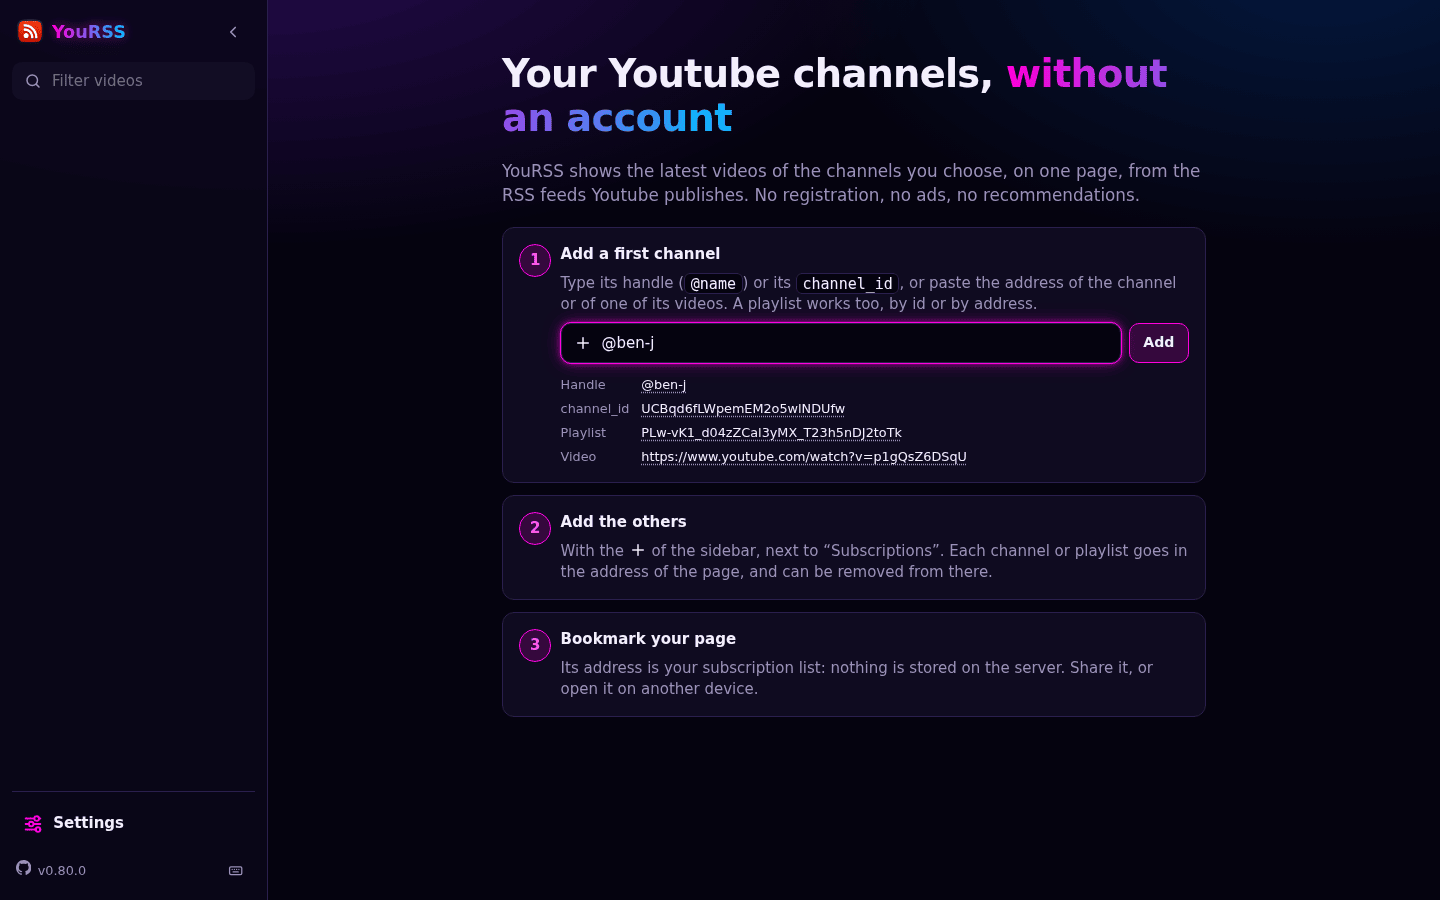
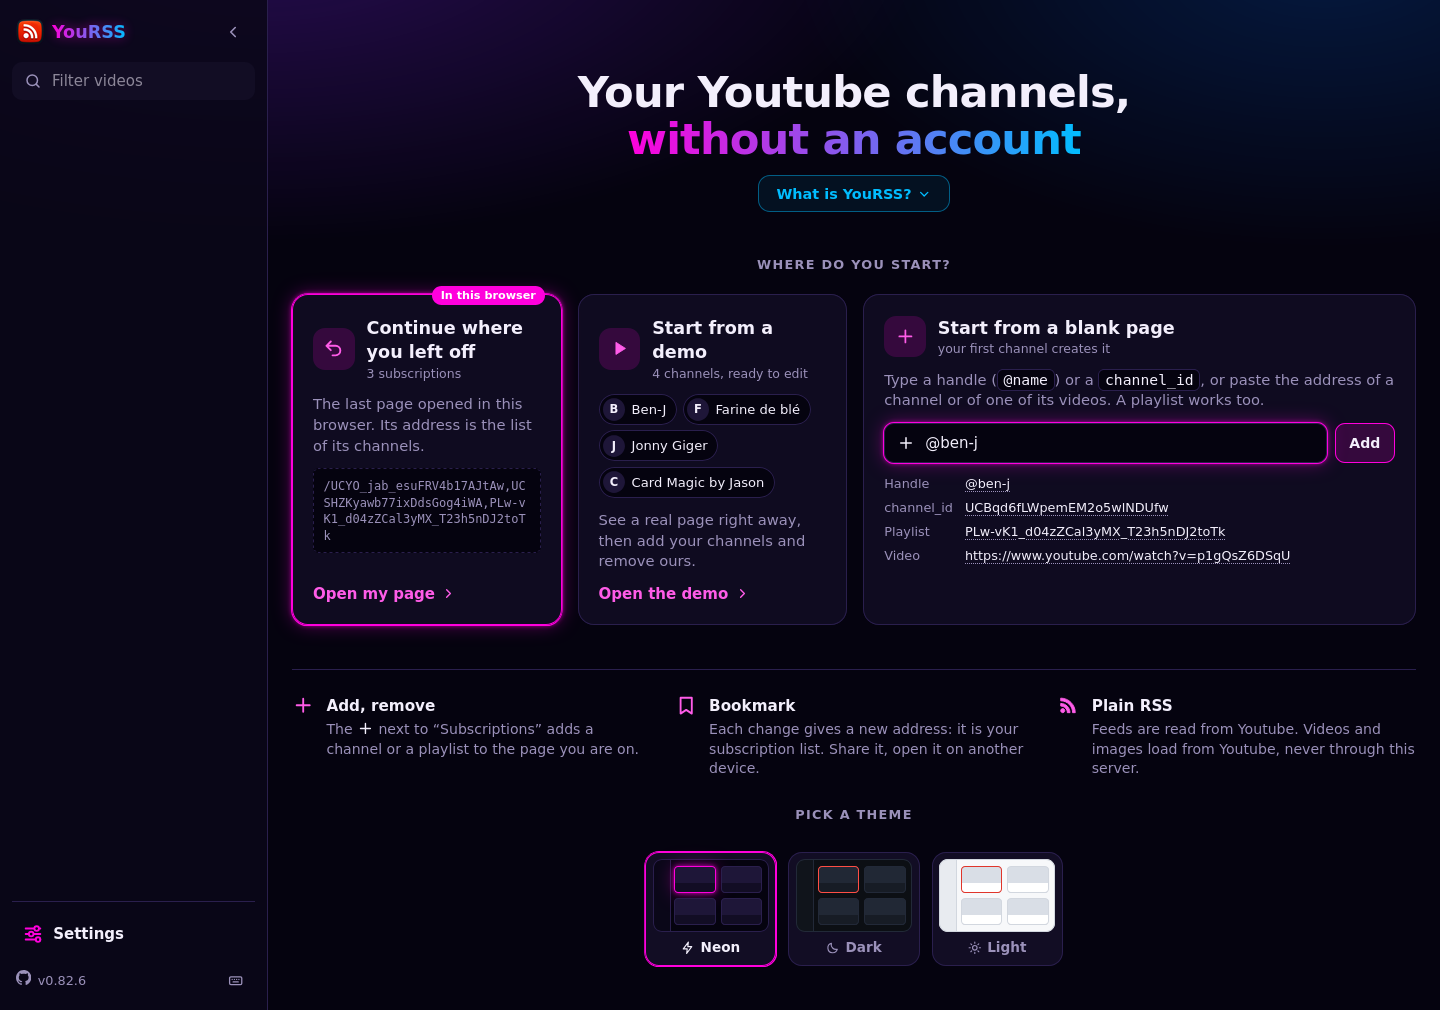
✨ Home page: three ways to start (last page, demo, blank page) and a theme picker
The demo page (Ben-J, Farine de blé, Jonny Giger, Card Magic by Jason) is welcomed
like a first page built from the home page. "What is YouRSS?" is a collapsed card,
so that the ways to start show without scrolling on a phone.

diff --git a/src/yourss/static/yourss.css b/src/yourss/static/yourss.css
@@ -234,11 +234,85 @@ body.rail .yourss-caret { display: none; }
 @media (max-width: 899px) { .yourss-welcome-phone { display: inline; } }
 
 /* ---- home page: the tutorial ---- */
-.yourss-home { max-width: 44rem; margin: 0 auto; padding: 2rem 0; display: flex; flex-direction: column; gap: 1.25rem; }
-.yourss-home h1 { margin: 0; font-size: clamp(1.6rem, 5vw, 2.4rem); line-height: 1.15; letter-spacing: -.02em; }
+.yourss-home { max-width: 72rem; margin: 0 auto; padding: 2rem 0 3rem; display: flex; flex-direction: column; gap: 1.25rem; }
+.yourss-home-hero { display: flex; flex-direction: column; align-items: center; gap: .75rem; padding: 1rem 0; text-align: center; }
+.yourss-home h1 { margin: 0; font-size: clamp(1.7rem, 5vw, 2.7rem); line-height: 1.1; letter-spacing: -.02em; }
 .yourss-home h1 em { font-style: normal; color: var(--accent); }
-.yourss-home-lead { margin: 0; font-size: 1.05rem; color: var(--fg-muted); }
-.yourss-home-resume { align-self: flex-start; height: 42px; padding: 0 1.1rem; border-color: var(--accent); color: var(--fg); font-weight: 600; }
+.yourss-home-lead { margin: 0; max-width: 38rem; font-size: 1.05rem; color: var(--fg-muted); }
+/* "What is YouRSS?" is blue: pink already marks the ways to start below it */
+.yourss-home-about { --about: #3b8ef0; max-width: 40rem; text-align: center; padding: .45rem 1.1rem; border-radius: var(--radius); border: 1px solid color-mix(in srgb, var(--about) 45%, transparent); background: color-mix(in srgb, var(--about) 8%, transparent); }
+[data-theme="light"] .yourss-home-about { --about: #1f6fd1; }
+[data-theme="neon"] .yourss-home-about { --about: var(--cyan); }
+.yourss-home-about[open] { padding-bottom: 1rem; border-color: var(--about); background: color-mix(in srgb, var(--about) 6%, var(--bg-elev)); }
+.yourss-home-about summary { display: inline-flex; align-items: center; gap: .35rem; list-style: none; cursor: pointer; font-size: .9rem; font-weight: 600; color: var(--about); }
+.yourss-home-about summary::-webkit-details-marker { display: none; }
+.yourss-home-about summary:hover { color: var(--fg); }
+.yourss-home-about .yourss-home-pills li { border-color: color-mix(in srgb, var(--about) 35%, transparent); }
+.yourss-home-about .yourss-home-pills svg, .yourss-home-source svg { color: var(--about); }
+.yourss-home-about .yourss-home-lead { margin: .75rem 0; }
+.yourss-home-source { margin: .9rem 0 0; font-size: .85rem; color: var(--fg-muted); }
+.yourss-home-source a { display: inline-flex; align-items: center; gap: .25rem; color: var(--fg); font-weight: 600; text-decoration: underline; text-underline-offset: 3px; }
+.yourss-home-source svg { width: 1em; height: 1em; }
+.yourss-home-about summary svg { width: 1em; height: 1em; transform: rotate(90deg); transition: transform .15s; }
+.yourss-home-about[open] summary svg { transform: rotate(-90deg); }
+.yourss-home-pills { list-style: none; margin: 0; padding: 0; display: flex; flex-wrap: wrap; justify-content: center; gap: .4rem; }
+.yourss-home-pills li { display: inline-flex; align-items: center; gap: .35rem; padding: .25rem .7rem; border-radius: 999px; border: 1px solid var(--line); font-size: .8rem; color: var(--fg-muted); }
+.yourss-home-pills svg { width: 1em; height: 1em; }
+.yourss-home-themes { display: flex; flex-wrap: wrap; justify-content: center; gap: .75rem; margin-top: .5rem; }
+.yourss-theme-swatch { display: flex; flex-direction: column; align-items: center; gap: .4rem; padding: .4rem .4rem .5rem; border-radius: 14px; border: 1px solid var(--line); background: var(--bg-elev); color: var(--fg-muted); font-size: .85rem; font-weight: 600; transition: border-color .15s, transform .15s; }
+.yourss-theme-swatch:hover { transform: translateY(-2px); color: var(--fg); }
+.yourss-theme-swatch.active { border-color: var(--accent); color: var(--fg); box-shadow: 0 0 0 1px var(--accent); }
+.yourss-theme-name { display: inline-flex; align-items: center; gap: .35rem; }
+.yourss-theme-name svg { width: 1em; height: 1em; fill: currentColor; stroke: none; }
+/* A miniature page: a sidebar and four cards, in the colours of the theme it previews */
+.yourss-theme-preview { display: grid; grid-template-columns: repeat(2, 2.6rem); gap: .3rem; padding: .35rem .35rem .35rem 1.3rem; border-radius: 9px; border: 1px solid var(--line); background: linear-gradient(90deg, var(--bg-side) 1rem, var(--line) 1rem 1.05rem, var(--bg) 1.05rem); }
+.yourss-theme-preview i { height: 1.7rem; border-radius: 4px; border: 1px solid var(--line); background: linear-gradient(var(--bg-hover) 62%, var(--bg-elev) 62%); }
+.yourss-theme-preview i:first-child { border-color: var(--accent); }
+/* Only neon defines a glow: the other previews would inherit it from the page in neon */
+.yourss-theme-preview[data-theme="neon"] i:first-child { box-shadow: var(--accent-glow); }
+.yourss-home-label { margin: .5rem 0 0; font-size: .8rem; letter-spacing: .1em; text-transform: uppercase; text-align: center; color: var(--fg-muted); }
+
+/* The three ways to start: the page remembered by this browser, the demo, a blank page */
+/* The blank page grows faster: its examples (a playlist id, a video address) need the room */
+.yourss-starts { display: flex; flex-wrap: wrap; gap: 1rem; align-items: stretch; }
+.yourss-start { position: relative; display: flex; flex-direction: column; gap: .75rem; flex: 1 1 14rem; min-width: 0; padding: 1.25rem; border-radius: 16px; background: var(--bg-elev); border: 1px solid var(--line); transition: border-color .15s, transform .15s; }
+.yourss-start.is-blank { flex: 3 1 26rem; }
+a.yourss-start:hover { border-color: var(--accent); transform: translateY(-2px); }
+.yourss-start.is-primary { border-color: var(--accent); box-shadow: 0 0 0 1px var(--accent); }
+.yourss-start-badge { position: absolute; top: -.6rem; right: 1rem; padding: .1rem .55rem; border-radius: 999px; background: var(--accent); color: var(--accent-fg); font-size: .7rem; font-weight: 700; }
+.yourss-start-head { display: flex; align-items: center; gap: .75rem; }
+.yourss-start-head strong { font-size: 1.1rem; }
+.yourss-start-head small { display: block; font-size: .78rem; font-weight: 500; color: var(--fg-muted); }
+.yourss-start-icon { display: grid; place-items: center; width: 2.6rem; height: 2.6rem; border-radius: 12px; flex: none; background: var(--accent-soft); color: var(--accent); }
+.yourss-start-icon svg { width: 1.3rem; height: 1.3rem; }
+.yourss-start-text { color: var(--fg-muted); font-size: .92rem; }
+.yourss-start code { padding: .05rem .35rem; border-radius: 6px; background: var(--bg); border: 1px solid var(--line); color: var(--fg); }
+.yourss-start .yourss-start-path { padding: .5rem .6rem; border-style: dashed; font-size: .75rem; color: var(--fg-muted); word-break: break-all; }
+.yourss-start-chips { display: flex; flex-wrap: wrap; gap: .35rem; }
+.yourss-start-chips > span { display: inline-flex; align-items: center; gap: .4rem; padding: .2rem .6rem .2rem .2rem; border-radius: 999px; background: var(--bg); border: 1px solid var(--line); font-size: .82rem; }
+.yourss-start-chips i { display: grid; place-items: center; width: 1.4rem; height: 1.4rem; border-radius: 50%; background: var(--bg-hover); font-style: normal; font-weight: 700; font-size: .72rem; }
+.yourss-start-go { margin-top: auto; display: inline-flex; align-items: center; gap: .4rem; font-weight: 600; color: var(--accent); }
+.yourss-start-go svg { width: 1em; height: 1em; }
+
+.yourss-home-how { list-style: none; margin: 1.5rem 0 0; padding: 1.5rem 0 0; border-top: 1px solid var(--line); display: grid; grid-template-columns: repeat(auto-fit, minmax(min(100%, 14rem), 1fr)); gap: 1.5rem; }
+.yourss-home-how li { display: flex; gap: .75rem; }
+.yourss-home-how li > svg { width: 1.4rem; height: 1.4rem; color: var(--accent); }
+.yourss-home-how span { font-size: .88rem; color: var(--fg-muted); }
+.yourss-home-how span svg { vertical-align: -.2em; color: var(--fg); }
+.yourss-home-how strong { display: block; margin-bottom: .2rem; color: var(--fg); font-size: .95rem; }
+/* Phones: the ways to start must show without scrolling, so the hero and the cards are trimmed */
+@media (max-width: 559px) {
+  .yourss-home { padding-top: .75rem; gap: 1rem; }
+  .yourss-home-hero { padding: 0; gap: .4rem; }
+  .yourss-home h1 { font-size: 1.5rem; }
+  .yourss-home-lead { font-size: .9rem; }
+  .yourss-start-path, a.yourss-start .yourss-start-text { display: none; }
+  .yourss-start { padding: 1rem; gap: .6rem; }
+  /* The three themes share one row, their previews shrink with it */
+  .yourss-home-themes { flex-wrap: nowrap; gap: .5rem; }
+  .yourss-theme-swatch { flex: 1 1 0; min-width: 0; }
+  .yourss-theme-preview { width: 100%; grid-template-columns: repeat(2, minmax(0, 1fr)); }
+}
 .yourss-steps { list-style: none; margin: 0; padding: 0; display: flex; flex-direction: column; gap: .75rem; counter-reset: step; }
 .yourss-steps li { counter-increment: step; position: relative; display: flex; flex-direction: column; gap: .5rem; padding: 1rem 1rem 1rem 3.6rem; background: var(--bg-elev); border: 1px solid var(--line); border-radius: var(--radius); }
 .yourss-steps li::before { content: counter(step); position: absolute; left: 1rem; top: 1rem; width: 1.9rem; height: 1.9rem; border-radius: 50%; display: grid; place-items: center; font-weight: 700; background: var(--accent-soft); color: var(--accent); border: 1px solid var(--accent); }
@@ -517,7 +591,9 @@ html[data-slide]::view-transition-new(root) { animation: yourss-slide-in .2s eas
 [data-theme="neon"] .yourss-video.is-watched [data-action="toggle-watched"] { color: var(--accent-text); }
 [data-theme="neon"] .yourss-home h1 em { background: linear-gradient(90deg, var(--accent) 0%, var(--cyan) 100%); -webkit-background-clip: text; background-clip: text; color: transparent; }
 [data-theme="neon"] .yourss-steps li::before, [data-theme="neon"] .yourss-add-error, [data-theme="neon"] .yourss-add-examples button:hover { color: var(--accent-text); }
-[data-theme="neon"] .yourss-steps li { background: rgba(18, 13, 36, .82); }
+[data-theme="neon"] .yourss-steps li, [data-theme="neon"] .yourss-start { background: rgba(18, 13, 36, .82); }
+[data-theme="neon"] .yourss-start-icon, [data-theme="neon"] .yourss-start-go, [data-theme="neon"] .yourss-home-how li > svg { color: var(--accent-text); }
+[data-theme="neon"] .yourss-start.is-primary { box-shadow: 0 0 0 1px var(--accent), var(--accent-glow); }
 [data-theme="neon"] .yourss-new { background: rgba(5, 3, 15, .78); color: var(--accent-text); border: 1px solid var(--accent); box-shadow: var(--accent-glow); }
 [data-theme="neon"] .yourss-reset-btn:hover { border-color: var(--err-line); background: var(--err-bg); color: var(--fg); }
 [data-theme="neon"] .yourss-settings-box { border-color: var(--accent); box-shadow: var(--accent-glow), 0 30px 90px rgba(0, 0, 0, .75); }

diff --git a/src/yourss/static/yourss.js b/src/yourss/static/yourss.js
@@ -331,12 +331,16 @@ const PAGE_PATH = /^\/(?:UC[\w-]{22}|PL[\w-]{32})(?:,(?:UC[\w-]{22}|PL[\w-]{32})
 // Navigate to the page made of `names`. The next page asks for a new bookmark, or, when it is the
 // first one built from the home page, shows how to add more subscriptions.
 function goToPage(names) {
+  flagEdited(pageNames().length === 0 ? "first" : "1")
+  location.assign(names.length > 0 ? `/${names.join(",")}` : "/")
+}
+
+function flagEdited(value) {
   try {
-    sessionStorage.setItem(EDITED_FLAG, pageNames().length === 0 ? "first" : "1")
+    sessionStorage.setItem(EDITED_FLAG, value)
   } catch {
     /* private mode */
   }
-  location.assign(names.length > 0 ? `/${names.join(",")}` : "/")
 }
 
 function removeChannel(el) {
@@ -408,7 +412,10 @@ function initEditablePage() {
   const resume = $("#yourss-my-page")
   const page = store.get("page")
   if (resume && page && PAGE_PATH.test(page)) {
+    const count = page.split(",").length
     resume.href = page
+    $("#yourss-my-page-count").textContent = `${count} subscription${count > 1 ? "s" : ""}`
+    $("#yourss-my-page-path").textContent = page
     resume.hidden = false
   }
   try {
@@ -506,6 +513,8 @@ const actions = {
     $("#yourss-search").focus()
   },
   "add-channel": openAddDialog,
+  // The demo page is welcomed like a first page built from the home page; the link then navigates
+  "open-demo": () => flagEdited("first"),
   "welcome-add": (el) => {
     el.closest("dialog").close()
     openAddDialog()

diff --git a/tests/test_web.py b/tests/test_web.py
@@ -18,6 +18,15 @@ async def test_home(client: AsyncClient) -> None:
     soup = BeautifulSoup(resp.text, features="html.parser")
     assert soup.body is not None and soup.body["data-page-names"] == ""
     assert soup.find("form", class_="yourss-add-form") is not None
+    themes = soup.select('.yourss-home-themes [data-action="set-theme"]')
+    assert [str(el["data-value"]) for el in themes] == ["neon", "dark", "light"]
+    # The demo page is a plain subscription list
+    demo = soup.find("a", id="yourss-demo")
+    assert demo is not None
+    resp = await client.get(str(demo["href"]))
+    assert resp.status_code == 200
+    soup = BeautifulSoup(resp.text, features="html.parser")
+    assert soup.body is not None and len(str(soup.body["data-page-names"]).split(",")) == 4
 
 
 async def test_page_is_editable(client: AsyncClient) -> None:

diff --git a/README.md b/README.md
@@ -34,9 +34,10 @@ No account: your subscriptions are the address of your page.
 
 | 1. Start from the home page | 2. Your page is created | 3. Add the rest, then bookmark |
 | --- | --- | --- |
-| ![The home page explains how it works](./images/yourss_home.png) | ![The page just created](./images/yourss_welcome.png) | ![Adding a channel or a playlist](./images/yourss_add.png) |
+| ![The home page offers three ways to start](./images/yourss_home.png) | ![The page just created](./images/yourss_welcome.png) | ![Adding a channel or a playlist](./images/yourss_add.png) |
 
-- the home page takes your first channel, then the **+** next to *Subscriptions* adds the others
+- the home page offers three ways to start: a demo page, ready to edit, a blank page made from your first channel, or the last page opened in this browser
+- then the **+** next to *Subscriptions* adds the others
 - a channel is added by its handle (`@name`), its *channel_id*, its address or the address of one of its videos; a playlist by its id or its address
 - a subscription is removed from the sidebar
 - each change gives a new address, made of ids only (example https://yourss.domain.tld/UCVooVnzQxPSTXTMzSi1s6uw,PLw-vK1_d04zZCal3yMX_T23h5nDJ2toTk): bookmark it, share it, open it on another device. Nothing is stored on the server
@@ -63,7 +64,7 @@ Click a channel in the sidebar to browse it without leaving your page: its recen
 
 ### 🎁 And also
 
-- three themes (neon, dark, light) and three density levels, to pick in the settings
+- three themes (neon, dark, light), to pick on the home page or in the settings, and three density levels
 - works on desktop and mobile, can be added to the home screen of a phone
 - instant search in the titles
 - keyboard shortcuts: arrows move in the grid, `Space` plays, `n`/`p` play the next/previous video, `Shift`+`↑`/`↓` change channel… press `?` for the list
@@ -204,7 +205,7 @@ The administrator of an instance can turn this off, for example to keep the inst
 
 # 📖 Usage
 
-- the home page `http://yourss.local/` explains how to build your own page and lets you add your first channel
+- the home page `http://yourss.local/` explains how to build your own page: open the demo page, or add your first channel
 - you can browse a single channel with: `http://yourss.local/UCVooVnzQxPSTXTMzSi1s6uw`
 - you can browse multiple channels and playlists in a single page, their ids separated by commas: `http://yourss.local/UCVooVnzQxPSTXTMzSi1s6uw,UCQsmxaMzYr76Yd1iqMEq8TA`
 - an address only holds ids: to add a channel by its handle (`@jonnygiger`) or its address, use the add form, which resolves it
